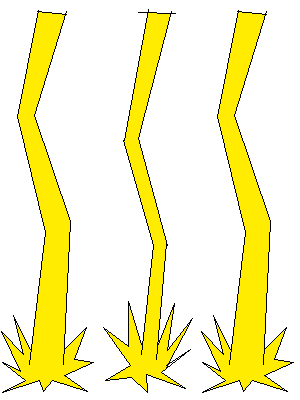
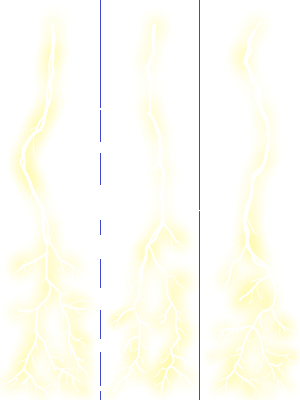
fix lightning

diff --git a/js/client/game/Level.js b/js/client/game/Level.js
@@ -42,7 +42,7 @@ const Level= {
                 SCREEN.renderer.bgColor="dimgray";
                 ReusedModule.createGameMap(1000,1000);
                 WORLD.environment.addGravity([-20000,-20000], [40000,40000], [0,-0.2]);
-                WORLD.environment.addDrag([-20000,-20000], [40000,40000], [0,0],0.02);
+                WORLD.environment.addDrag([-20000,-20000], [40000,40000], [0,0],0.01);
                 ReusedModule.snowWeather()
                 Level.createMainMonster(level, [800, 0]);
                 break;
@@ -50,21 +50,21 @@ const Level= {
                 SCREEN.renderer.bgColor="#cde5e4";
                 ReusedModule.createGameMap(2000,1000);
                 WORLD.environment.addGravity([-20000,-20000], [40000,40000], [0,-0.2]);
-                WORLD.environment.addDrag([-20000,-20000], [40000,40000], [0,0],0.02);
+                WORLD.environment.addDrag([-20000,-20000], [40000,40000], [0,0],0.01);
                 ReusedModule.snowWeather()
                 Level.createMainMonster(level,[500, 0]);
                 break;
             case 2:
                 ReusedModule.createGameMap(2000,1000);
                 WORLD.environment.addGravity([-20000,-20000], [40000,40000], [0,-0.2]);
-                WORLD.environment.addDrag([-20000,-20000], [40000,40000], [0,0],0.02);
+                WORLD.environment.addDrag([-20000,-20000], [40000,40000], [0,0],0.01);
                 ReusedModule.snowWeather()
                 Level.createMainMonster(level,[2000, 1000]);
                 break;
             case 3: 
                 ReusedModule.createGameMap(2000,1000);
                 WORLD.environment.addGravity([-20000,-20000], [40000,40000], [0,-0.2]);
-                WORLD.environment.addDrag([-20000,-20000], [40000,40000], [0,0],0.02);
+                WORLD.environment.addDrag([-20000,-20000], [40000,40000], [0,0],0.01);
                 ReusedModule.snowWeather()
                 Level.createMainMonster(level,[1500, 0]);
                 break;
@@ -72,7 +72,7 @@ const Level= {
                 SCREEN.renderer.bgColor="rgb(108, 141, 150)"
                 ReusedModule.createGameMap(2000,1000);
                 WORLD.environment.addGravity([-20000,-20000], [40000,40000], [0,-0.2]);
-                WORLD.environment.addDrag([-20000,-20000], [40000,40000], [0,0],0.02);
+                WORLD.environment.addDrag([-20000,-20000], [40000,40000], [0,0],0.01);
                 ReusedModule.fireflyWeather()
                 Level.createMainMonster(level,[500, 0]);
                 break;
@@ -80,22 +80,22 @@ const Level= {
                 SCREEN.renderer.bgColor="rgb(100, 90, 90)"
                 ReusedModule.createGameMap(4000,1000);
                 WORLD.environment.addGravity([-20000,-20000], [40000,40000], [0,-0.2]);
-                WORLD.environment.addDrag([-20000,-20000], [40000,40000], [0,0],0.02);
+                WORLD.environment.addDrag([-20000,-20000], [40000,40000], [0,0],0.01);
                 ReusedModule.fireWeader()
                 Level.createMainMonster(level,[2000, 0]);
                 break;
             case 6:
-                SCREEN.renderer.bgColor="rgb(216, 214, 190)"
+                SCREEN.renderer.bgColor="rgb(104, 104, 99)"//"rgb(142, 142, 134)"//"rgb(216, 214, 190)"//
                 ReusedModule.createGameMap(4000,1000);
                 WORLD.environment.addGravity([-20000,-20000], [40000,40000], [0,-0.2]);
-                WORLD.environment.addDrag([-20000,-20000], [40000,40000], [0,0],0.02);
-                ReusedModule.snowWeather()
+                WORLD.environment.addDrag([-20000,-20000], [40000,40000], [0,0],0.01);
+                ReusedModule.sparkWeather()
                 Level.createMainMonster(level,[2000, 0]);
                 break;
             default:
                 ReusedModule.createGameMap(10000,10000);
                 WORLD.environment.addGravity([-20000,-20000], [40000,40000], [0,-0.2]);
-                WORLD.environment.addDrag([-20000,-20000], [40000,40000], [0,0],0.02);
+                WORLD.environment.addDrag([-20000,-20000], [40000,40000], [0,0],0.01);
 
                 let i=0;
                 TIME.addSchedule(0,1,0.1,function(){Level.createMainMonster(0,[800+(i++)*50, 0]);})

diff --git a/js/client/GameUnit/Matter.js b/js/client/GameUnit/Matter.js
@@ -105,17 +105,8 @@ class MatterElectricity extends Matter{
         this.physics.fixedGravity=true;
         this.physics.setGravity([0,0]);
         this.lifeModule.ondamage=(d,dt)=>{
-            if(this.getState()===0)return false;
-            if(dt == TYPE.damageElectricity){
-                if(this.electricPoint++>10000){
-                    WORLD.add(new MatterLightning([this.body.midX-150,this.body.midY]));
-                    this.setState(0);
-                }
-                return false;
-            }else{
-                this.electricPoint=0;
-                return true;
-            }
+            if(dt == TYPE.damageElectricity)return false
+            return true
         }
     }
     update(){
@@ -126,6 +117,14 @@ class MatterElectricity extends Matter{
     oncollision(event){
         let other=event.other;
         if(other.lifeModule)other.lifeModule.giveDamage(this.damage,this.damageType);
+        if(other instanceof MatterElectricity){
+            if(this.electricPoint>=other.electricPoint)this.electricPoint++;
+            else this.electricPoint=0;
+            if(this.electricPoint>10000 && this.getState()!=0){
+                WORLD.add(new MatterLightning([this.body.midX-150,this.body.midY]));
+                this.setState(0);
+            }
+        }else this.electricPoint=0;
         other.body.setVel([0,0])
         return false;
     }
@@ -137,6 +136,7 @@ class MatterArrow extends Matter{
         super(pos,[30,30],vel,500,TYPE.damageEnergy);
         this.image=Game.resource.getImage("matter_arrow")
         this.physics.inv_mass*=0.5;
+        this.physics.setCOR(0.3)
     }
     draw(r){r.drawImage(this.image,this.body,{rotate:Math.atan2(this.body.vel[0], this.body.vel[1])});}
     oncollision(event){
@@ -208,8 +208,9 @@ class MatterWind extends Matter{
 class MatterLightning extends Matter{
     animation;
     constructor(pos){
-        super(pos,[300,1200],[0,0],1000,TYPE.damageElectricity);
+        super(pos,[300,1200],[0,0],10000,TYPE.damageElectricity);
         this.animation=new UnitAnimation(Game.resource.getImage("matter_lightning"), 100,400,[3],function(){return 0})
+        this.animation.fps=16;
         this.body.fixedPos=true;
         this.physics.fixedGravity=true;
         this.physics.setGravity([0,0]);
@@ -224,8 +225,8 @@ class MatterLightning extends Matter{
         if(this.getState()==0)return false;
         if(event.other instanceof MatterElectricity){
             event.other.setState(0);
-            //this.damage+=event.other.damage*0.1;
-            //this.life++;
+            this.damage+=event.other.damage;
+            this.life++;
         }
         if(event.other.lifeModule)event.other.lifeModule.giveDamage(this.damage,this.damageType);
         return false;

diff --git a/js/client/GameUnit/Monster.js b/js/client/GameUnit/Monster.js
@@ -310,7 +310,7 @@ class MonsterGolem extends Monster{
         },501));
         this.skillModule.addSkill(new MagicSkill("front",function(e){
             if(!e.canTarget())return;
-            let b=e.body, vel=e.getTargetDirX()*10;
+            let b=e.body, vel=e.getTargetDirX()*5;
             e.antiMatterFlag=true;
             TIME.addSchedule(0.5, 1, 0, function(){b.vel[0]+=vel;});
             TIME.addSchedule(1, 1, 0, function(){e.antiMatterFlag=false;});
@@ -459,7 +459,7 @@ class MonsterDragon extends Monster{
             let vel=[(tb.midX-x)/speed, (tb.midY-y)/speed];
             let elecs=[];
             for(let i=0; i<100; i++){
-                let color=`rgba(255,255,${(200-i*3>0 ? 200-i*3 : 0)},0.7)`
+                let color=`rgba(255,255,${(200-i*3>0 ? 200-i*3 : 0)},0.4)`
                 //let color=`rgba(${(200-i*3>0 ? 200-i*3 : 0)},${(255-i*3>0 ? 255-i*3 : 0)},255,0.3)`
                 let elec=WORLD.add(new Block([x+i,y+i],[50,50],color));
                 elec.lifeModule.life=100000;

diff --git a/js/client/modules/ReusedModule.js b/js/client/modules/ReusedModule.js
@@ -76,7 +76,7 @@ const ReusedModule={
         const CAMERA=SCREEN.renderer.camera;
         const POS=CAMERA.pos;
         const SCREEN_POS=CAMERA.screenPos
-        const SCREEN_RATE=[CAMERA.screenPos[0]/SCREEN.perX(100),CAMERA.screenPos[1]/SCREEN.perY(100)]
+        const SCREEN_RATE=[SCREEN_POS[0]/SCREEN.perX(100),SCREEN_POS[1]/SCREEN.perY(100)]
         const RANGE_X=SCREEN.perX(100)/CAMERA.zoom;
         const RANGE_Y=SCREEN.perY(100)/CAMERA.zoom;
         for(let i=0; i<count; i++){
@@ -102,7 +102,10 @@ const ReusedModule={
         ReusedModule.createParticleSpray(TYPE.ember,15,30,-1.5)
     },
     fireflyWeather:function(count=50){
-        ReusedModule.createParticleSpray(TYPE.firefly,15,count,-0.5)
+        ReusedModule.createParticleSpray(TYPE.firefly,15,count,1)
+    },
+    sparkWeather:function(count=40){
+        ReusedModule.createParticleSpray(TYPE.spark,20,count,10)
     },
 
     createMobileButton:function(player,size){

diff --git a/js/client/GameUnit/Actor.js b/js/client/GameUnit/Actor.js
@@ -33,14 +33,14 @@ class Actor extends GameUnit{
         this.lifeModule.update();
         this.skillModule.update();
     }
-    getNameTag=function(){return `HP:${this.lifeModule.life}`}
-    draw(r){
-        r.ctx.textBaseline = "middle";
-        r.ctx.textAlign = "center";
-        r.ctx.font = "bold 15px Arial";
-        r.ctx.fillStyle = "black";
-        r.fillText(this.getNameTag(), this.body)
-    }
+    // getNameTag=function(){return `HP:${this.lifeModule.life}`}
+    // draw(r){
+    //     r.ctx.textBaseline = "middle";
+    //     r.ctx.textAlign = "center";
+    //     r.ctx.font = "bold 15px Arial";
+    //     r.ctx.fillStyle = "black";
+    //     r.fillText(this.getNameTag(), this.body)
+    // }
     onkeydown(keyCode, moveKey, skillKey){
         switch(keyCode){
             case moveKey[0]:this.moveModule.keyDownHandler(0);break;

diff --git a/js/client/GameUnit/Particle.js b/js/client/GameUnit/Particle.js
@@ -28,5 +28,6 @@ const PARTICLE_TYPE=[{name:"particle_ember",setStatus:(e)=>{e.randomSpeed=1;}},
     {name:"particle_snow",setStatus:(e)=>{e.randomSpeed=1;e.physics.ga=0;e.physics.setCOD(0.5);}},
     {name:"particle_ash",setStatus:(e)=>{e.randomSpeed=1;e.physics.ga=-0.01}},
     {name:"particle_magic_effect",setStatus:(e)=>{e.randomSpeed=0;e.physics.fixedGravity=true;}},
-    {name:"particle_firefly",setStatus:(e)=>{e.randomSpeed=1;e.physics.ga=0;e.physics.setCOD(0.5);}}
+    {name:"particle_firefly",setStatus:(e)=>{e.randomSpeed=1;e.physics.ga=0;e.physics.setCOD(0.5);}},
+    {name:"particle_spark",setStatus:(e)=>{e.randomSpeed=1;e.physics.ga=0;e.physics.setCOD(0.5);}}
 ];

diff --git a/js/client/main.js b/js/client/main.js
@@ -28,12 +28,13 @@ Game.resource.loadImage([
     "resource/entity/particle/particle_magic_effect.png",
     "resource/entity/particle/particle_smoke.png",
     "resource/entity/particle/particle_snow.png",
-    "resource/entity/particle/particle_firefly.png"
+    "resource/entity/particle/particle_firefly.png",
+    "resource/entity/particle/particle_spark.png"
 ]);
 
 const TYPE={
     //particle
-    ember:0,smoke:1,cloud:2,snow:3,ash:4,magicEffect:5,firefly:6,
+    ember:0,smoke:1,cloud:2,snow:3,ash:4,magicEffect:5,firefly:6,spark:7,
     //matter
     fire:0,electricity:1,ice:2,arrow:3,energy:4,wind:5,explosion:6,lightning:7,
     //monster

diff --git a/css/style.css b/css/style.css
@@ -21,6 +21,19 @@ button{
     user-select: none;
 }
 
+::-webkit-scrollbar {
+    width: 8px;
+    background-color: none;
+}
+
+::-webkit-scrollbar-track {
+    background-color:none;
+}
+
+::-webkit-scrollbar-thumb {
+    background-color: rgba(0,0,0,0.3);
+}
+
 #screenbox{
     width:auto;
     height:600;
@@ -89,7 +102,7 @@ button{
 /* 마법 관련 화면 */
 .scroll{
     text-align: center;
-    overflow-y: scroll;
+    overflow-y:auto;
     overflow-x:visible;
     background-color: rgba(0,0,0,0.1);
     border: solid rgba(0,0,0,0.2) 2px;

diff --git a/js/client/GameUnit/Player.js b/js/client/GameUnit/Player.js
@@ -2,7 +2,7 @@ class Player extends Actor{
     animation;
     statusBarInfo;
     constructor(pos, level=Level.playerLevel){
-        super(pos, [30,60], new GameUnitMoveModule(0,5,5), new GameUnitLifeModule(10000*(level+1),50,20), new GameUnitSkillModule((level+1)*20000,level));
+        super(pos, [30,60], new GameUnitMoveModule(0,6,5), new GameUnitLifeModule(10000*(level+1),50,20), new GameUnitSkillModule((level+1)*20000,level));
         this.body.overlap=true;
         this.damageTextColor="red";
         this.damageVibrate=30;

diff --git a/js/game engine/GameUnit/UnitPhysics.js b/js/game engine/GameUnit/UnitPhysics.js
@@ -7,7 +7,7 @@ class UnitPhysics {
 
     inv_mass=1;//질량분의1
     FRICTION_COEF=0.2; //마찰 계수 / 0~1이며 0이면 마찰력 없음 COF
-    DRAG_COEF=0.5; //항력 계수 / 0~1이며 0이면 저항력 없음 COD
+    DRAG_COEF=0.01; //항력 계수 / 0~1이며 0이면 저항력 없음 COD
     RESTITUTION_COEF=0; //반발 계수 / 0~1이며 0이면 완전 비탄성 충돌,1이면 완전 탄성 충돌 COR
 
     constructor(){}

diff --git a/js/client/modules/GameUnitModuleSet.js b/js/client/modules/GameUnitModuleSet.js
@@ -20,8 +20,11 @@ class GameUnitMoveModule {
         this.calculateFootDirection(unit.physics.gravity);
     }
     moveRun(body){
-        if(this.footDirection[0]===0)this.moveX(body); 
-        else this.moveY(body);
+        if(this.canJump){
+            if(this.footDirection[0]===0)this.moveX(body); 
+            else this.moveY(body);
+        }
+        
         if(this.doJump)this.jump(body);
     }
     moveFly(body){

diff --git a/js/client/game/MagicManager.js b/js/client/game/MagicManager.js
@@ -243,9 +243,11 @@ move(wind,front(-100),-20);
 giveForce(wind,0,-35);`,level:2},
 
     {name:"기관총",code:`//화살 발사
-addSchedule(0,5,1/10,#{
-    @a = create(ARROW, front(30), 3)
-    move(a,front(20),0)
+addSchedule(0,5,1/20,#{
+    for(@i=0; i<2; i++){
+        @a = create(ARROW, front(60), 3)
+        move(a,front(20),i*35)
+    }
 })`, level:3},
 
     {name:"전격실드", code:`//전기 실드를 생성
